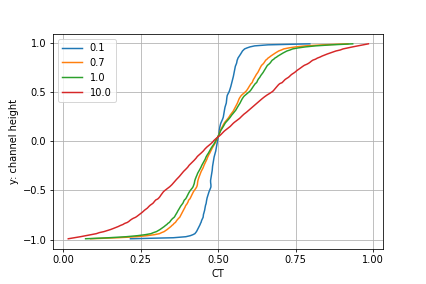
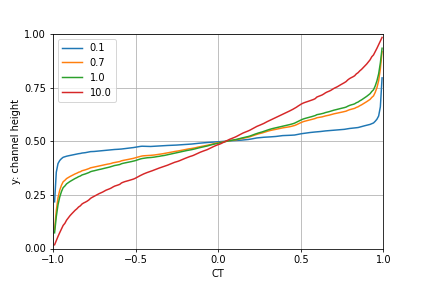
update images

diff --git a/channel_flow/postProcess_DNS.py b/channel_flow/postProcess_DNS.py
@@ -25,16 +25,15 @@ U_rms = np.loadtxt(fPath+'U.rms.collapse_width.dat')
 # W_rms = np.loadtxt(fPath+'W.rms.collapse_width.dat')
 
 fig, [ax1,ax2] = plt.subplots(ncols=2, figsize=(12,5))
-ax1.plot(U_mean[:,5],U_mean[:,3],'r')
-ax1.plot([means[:,2], means[:,2]], [-1+means[:,0],1-means[:,0]],'bx')
-ax1.set(xlabel='U_mean',ylabel='y: channel height')
+ax1.plot(U_mean[:,3],U_mean[:,5],'r')
+ax1.plot([-1+means[:,0],1-means[:,0]],[means[:,2], means[:,2]],'bx')
+ax1.set(xlabel='y: channel height', ylabel='U_mean')
 ax1.legend(['CharLES','DNS'])
 
 
-ax2.plot(U_rms[:,5],U_rms[:,3],'r')
-ax2.plot(np.sqrt(reys[:,2]), -1+reys[:,0],'bx')
-ax2.plot(np.sqrt(reys[:,2]),  1-reys[:,0],'bx')
-ax2.set(xlabel='U_rms',ylabel='y: channel height')
+ax2.plot(U_rms[:,3],U_rms[:,5],'r')
+ax2.plot([-1+reys[:,0],1-reys[:,0]],np.sqrt([reys[:,2], reys[:,2]]),'bx')
+ax2.set(xlabel='y: channel height', ylabel='U_rms')
 fig.savefig('images/vel_mean_rms.png')
 
 

diff --git a/channel_flow/postProcess-png.py b/channel_flow/postProcess-png.py
@@ -24,11 +24,14 @@ for Sc in Sc_list:
 fig, ax = plt.subplots(figsize=(6,4))
 
 for Sc in Sc_list:
-    ax.plot(CT[Sc],y[Sc])
+    ax.plot(y[Sc],CT[Sc])
     
-ax.set(xlabel='CT', ylabel='y: channel height')
+ax.set(xlabel='CT', ylabel='y: channel height', \
+       xticks=[-1,-0.5,0,0.5,1], yticks=[0,0.25,0.5,0.75,1.0], \
+       xlim=(-1,1), ylim=(0,1))
 ax.grid()
 ax.legend(Sc_list)
+fig.savefig('images/scalar_'+fCase+'.png')
     
 
 
